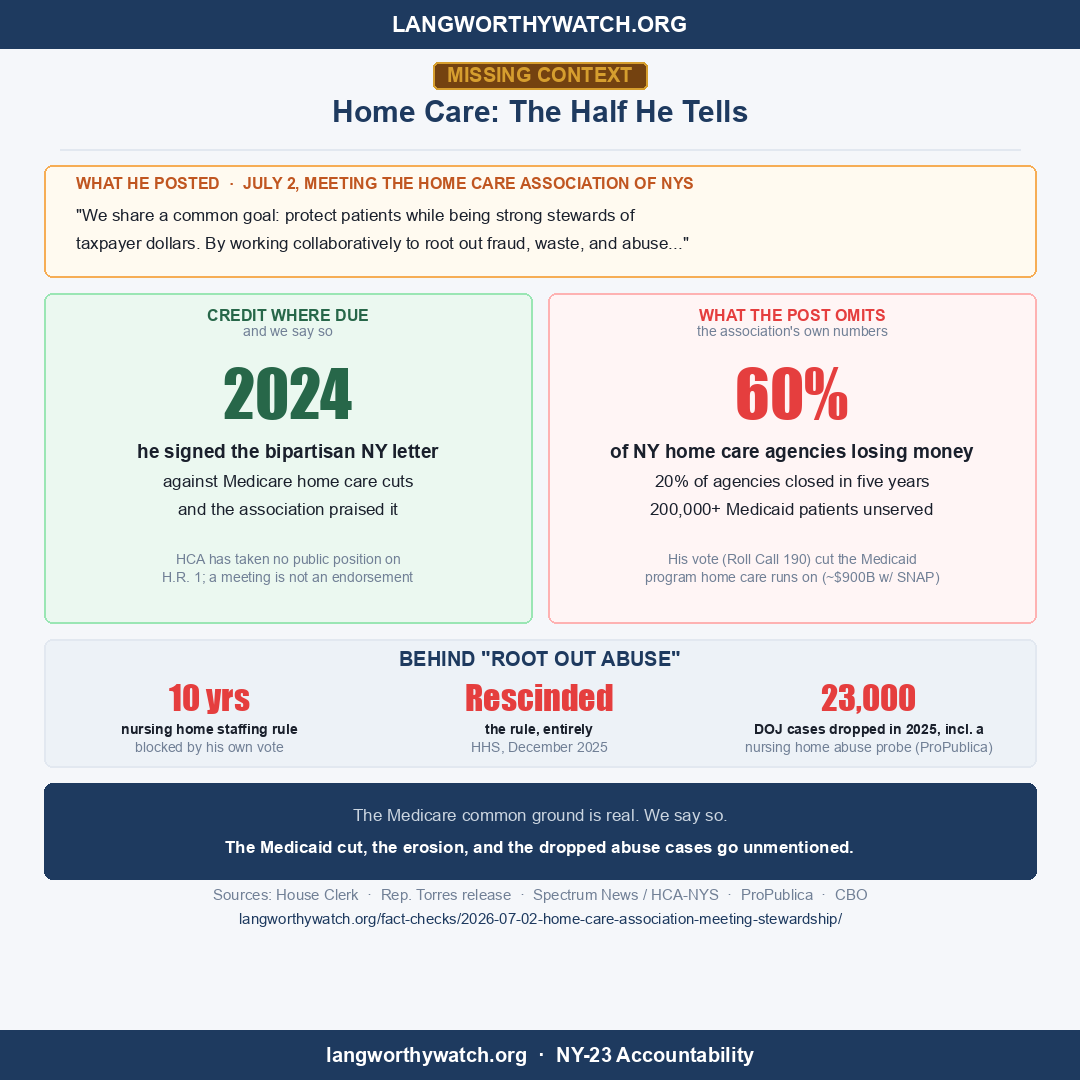
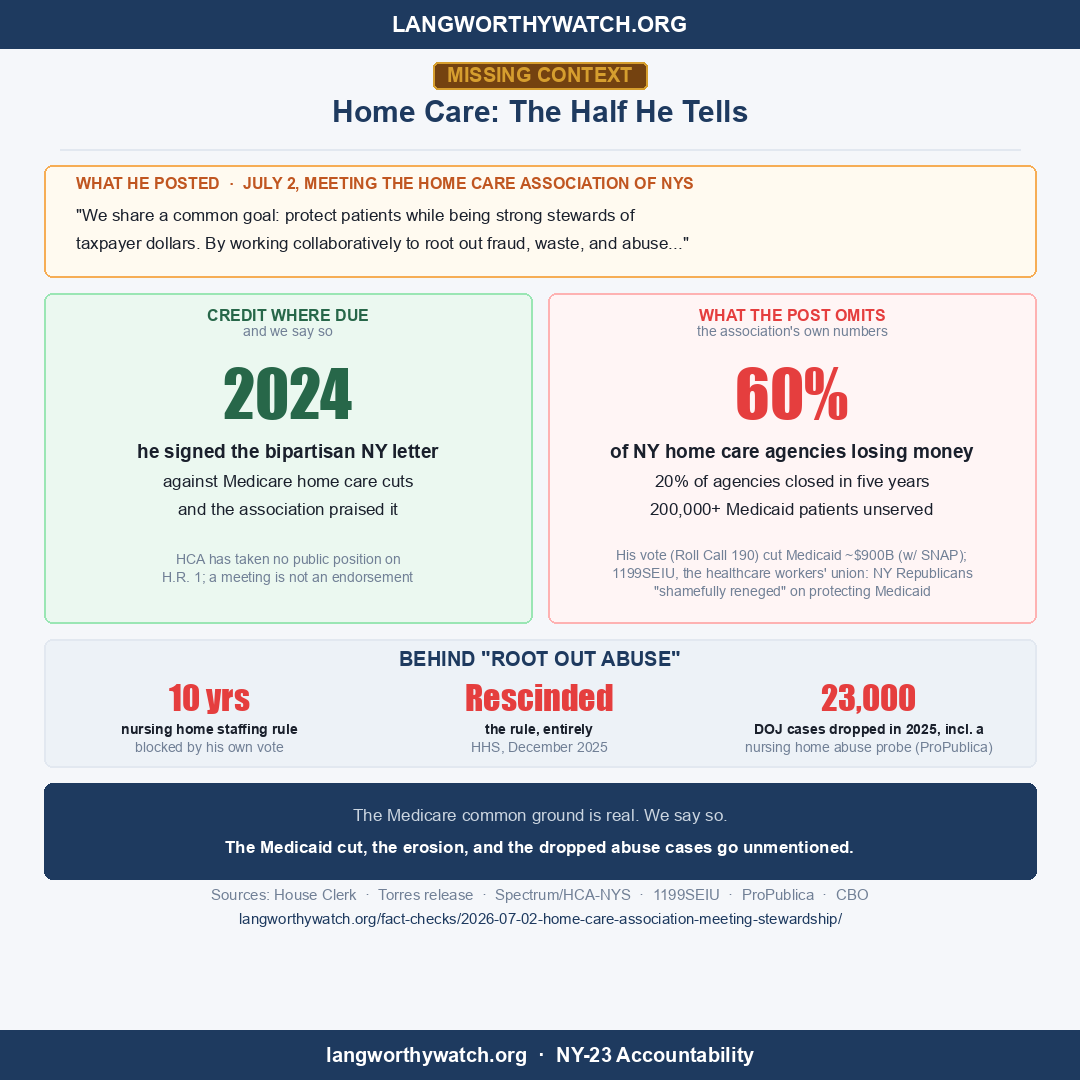
feat(fact-check): add 1199SEIU to home care entry, card, and post
The workforce counterpoint: 1199SEIU (healthcare workers' union, NY home care
workforce) is on the Medicaid Matters statement HCA is absent from, with words
aimed at his delegation: NY Republicans "shamefully reneged on their promises
to their constituents to protect Medicaid." Quoted verbatim with May-2025/
House-bill context note ($625B figure attributed to the union at that time).
Entry bullet, card red-column footer + sources line, post arrow all updated.

diff --git a/social-media/create_home_care_card.py b/social-media/create_home_care_card.py
@@ -54,8 +54,9 @@ draw.text((rx+col_w//2,y+100),"60%",fill=RED,font=f_big,anchor="mm")
 draw.text((rx+col_w//2,y+158),"of NY home care agencies losing money",fill=DARK,font=f_sub_b,anchor="mm")
 draw.text((rx+col_w//2,y+188),"20% of agencies closed in five years",fill=DARK,font=f_sub,anchor="mm")
 draw.text((rx+col_w//2,y+216),"200,000+ Medicaid patients unserved",fill=DARK,font=f_sub,anchor="mm")
-draw.text((rx+col_w//2,y+266),"His vote (Roll Call 190) cut the Medicaid",fill=MUTED,font=f_xs,anchor="mm")
-draw.text((rx+col_w//2,y+284),"program home care runs on (~$900B w/ SNAP)",fill=MUTED,font=f_xs,anchor="mm")
+draw.text((rx+col_w//2,y+262),"His vote (Roll Call 190) cut Medicaid ~$900B (w/ SNAP);",fill=MUTED,font=f_xs,anchor="mm")
+draw.text((rx+col_w//2,y+280),"1199SEIU, the healthcare workers' union: NY Republicans",fill=MUTED,font=f_xs,anchor="mm")
+draw.text((rx+col_w//2,y+298),"\"shamefully reneged\" on protecting Medicaid",fill=MUTED,font=f_xs,anchor="mm")
 y+=col_h+16
 
 strip_h=128
@@ -78,7 +79,7 @@ draw.rounded_rectangle([(44,y),(WIDTH-44,y+kick_h)],radius=8,fill=NAVY)
 draw.text((WIDTH//2,y+32),"The Medicare common ground is real. We say so.",fill="#CBD5E0",font=font("Arial.ttf",17),anchor="mm")
 draw.text((WIDTH//2,y+64),"The Medicaid cut, the erosion, and the dropped abuse cases go unmentioned.",fill=WHITE,font=font("Arial Bold.ttf",17),anchor="mm")
 y+=kick_h+16
-draw.text((WIDTH//2,y),"Sources: House Clerk  ·  Rep. Torres release  ·  Spectrum News / HCA-NYS  ·  ProPublica  ·  CBO",
+draw.text((WIDTH//2,y),"Sources: House Clerk  ·  Torres release  ·  Spectrum/HCA-NYS  ·  1199SEIU  ·  ProPublica  ·  CBO",
           fill=MUTED,font=f_src,anchor="mm"); y+=24
 draw.text((WIDTH//2,y),"langworthywatch.org/fact-checks/2026-07-02-home-care-association-meeting-stewardship/",
           fill=NAVY,font=f_src,anchor="mm")

diff --git a/content/fact-checks/2026-07-02-home-care-association-meeting-stewardship.md b/content/fact-checks/2026-07-02-home-care-association-meeting-stewardship.md
@@ -31,6 +31,7 @@ Home care is how rural NY-23 seniors and people with disabilities stay out of nu
 - **He signed the bipartisan home-health letter.** In September 2024, Rep. Ritchie Torres led a New York delegation letter to President Biden, OMB, and CMS opposing the CY2025 Medicare home-health payment rule — "an unprecedentedly steep payment reduction." According to Rep. Torres's release, the letter was **"signed by all rank-and-file members of the New York Congressional Delegation,"** which includes Langworthy.
 - **The association praised that stand.** HCA's statement on the letter: "Our state's Congressional Delegation deserves the appreciation of all New Yorkers for this direct, impassioned request… Thank you to our Congressional Members for taking this strong stand on behalf of your constituents in need."
 - **HCA has not condemned the Medicaid law he voted for.** The association does not appear among the eighteen organizations on Medicaid Matters New York's statement condemning the House's H.R. 1 Medicaid cuts, and its Federal Advocacy Center takes no stated position on the reconciliation law. Its loud federal ask is Medicare-side: "Stop Home Health Cuts!" and support for the Home Health Stabilization Act — very likely what this meeting was about.
+- **The workforce's union did take a position.** 1199SEIU United Healthcare Workers East — the healthcare workers' union whose New York membership includes home care workers — is on that same Medicaid Matters statement, and its words were aimed at his delegation: **"New York Republicans shamefully reneged on their promises to their constituents to protect Medicaid, instead voting for the largest cut in history."** (Statement issued on House passage, May 2025; the union's $625 billion figure reflects the House-passed bill's Medicaid estimate at that time.) So the split is precise: the employers' association he met is publicly neutral on the law; the union representing the people who deliver the care condemned it, naming his delegation.
 
 Per this site's [methodology](/methodology/): a group meeting with its representative is exercising access, not endorsing a record — and nothing in this entry should be read as putting HCA on either side of Langworthy's votes.
 

diff --git a/social-media/home_care_post.md b/social-media/home_care_post.md
@@ -11,6 +11,7 @@ Here is what the post leaves out.
 
 → The association's own published numbers describe a sector in erosion, not one padded with waste: 60 percent of NY home care and hospice agencies are losing money, 20 percent of agencies closed in the last five years, and more than 200,000 Medicaid patients could not get care.
 → His vote (Roll Call 190) cut the program home care actually runs on: roughly $900 billion out of Medicaid and SNAP over ten years, per CBO. Analysts are already tracking the law's home care effects.
+→ The association he met has taken no public position on that law. The healthcare workers' union, 1199SEIU, has: "New York Republicans shamefully reneged on their promises to their constituents to protect Medicaid, instead voting for the largest cut in history."
 → And behind "root out abuse": the same vote carried a rider blocking the federal nursing home staffing rule for ten years. The administration then rescinded the rule entirely in December. And per ProPublica, the DOJ dropped about 23,000 pending criminal investigations last year, including one into a Virginia nursing home with a recent record of patient abuse.
 
 The letter he signed in 2024 warned that home care cuts "will disrupt access to home health services." That logic was right. It just has not been applied to his own vote.